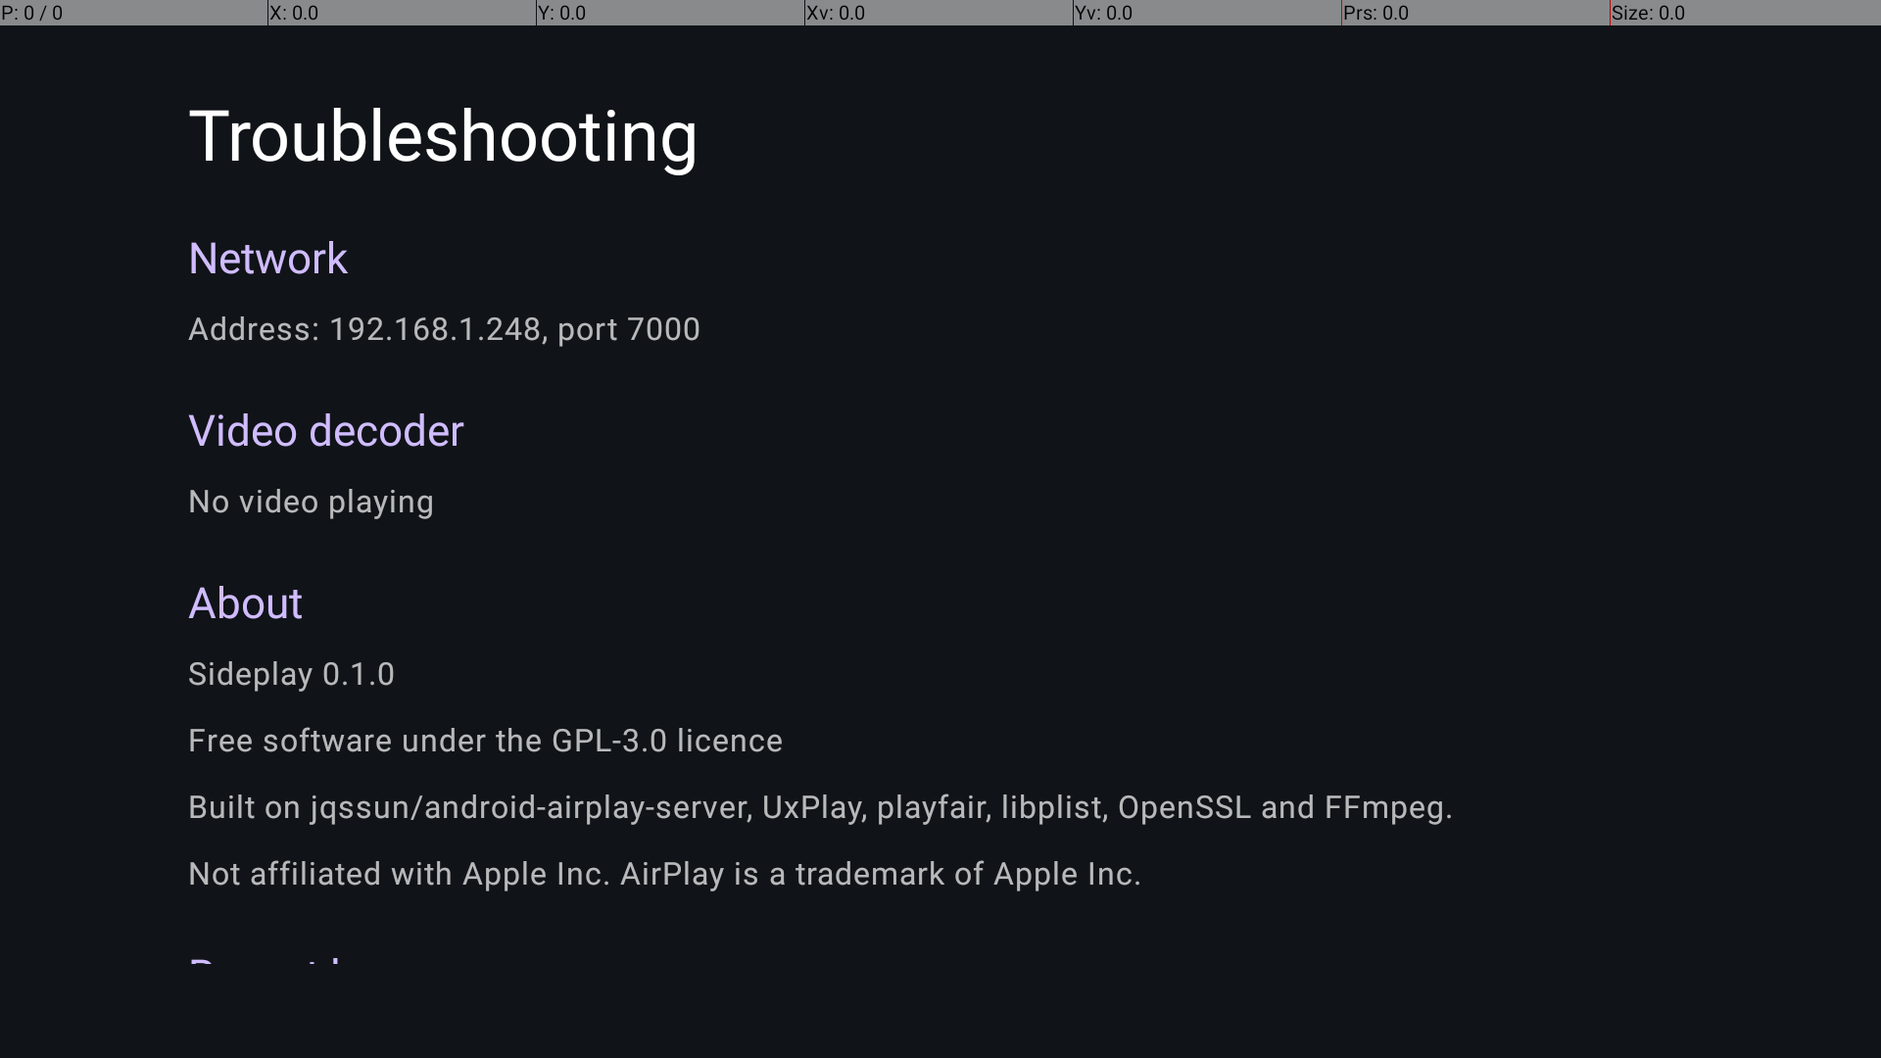
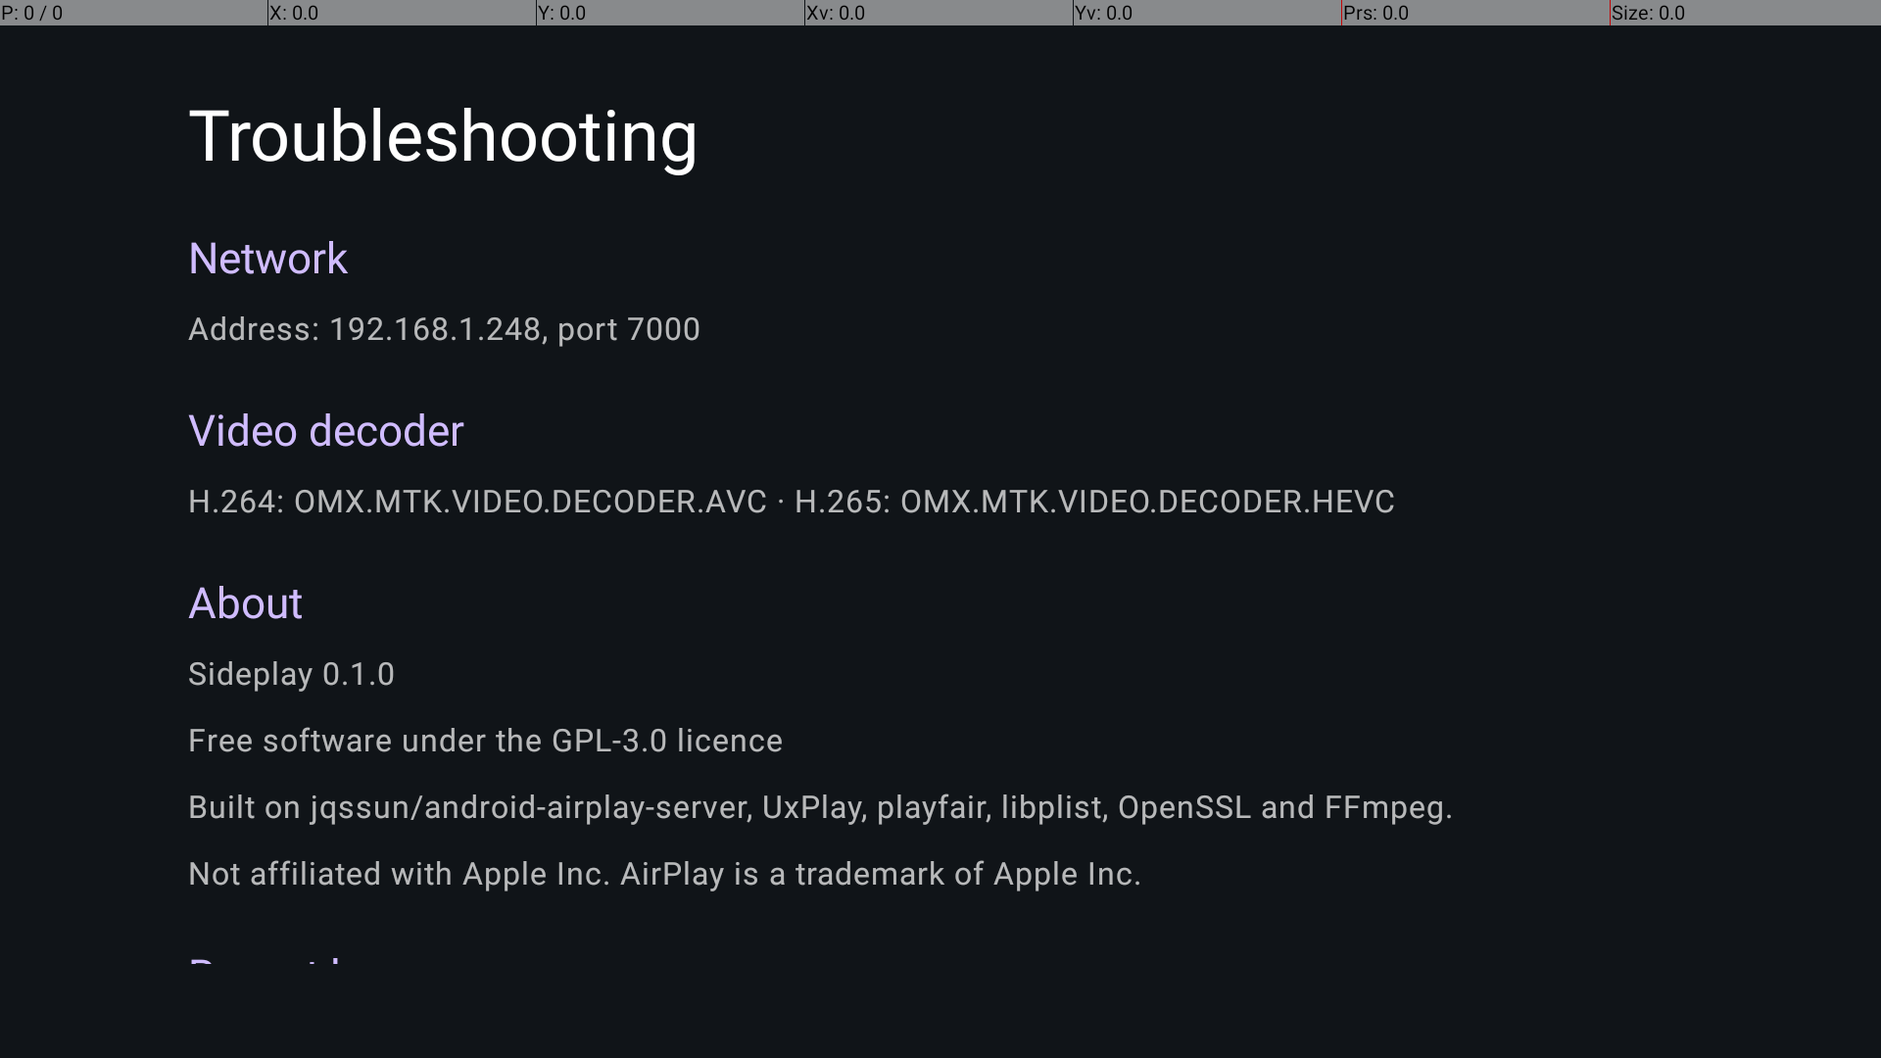
fix(tv): address final review findings
- PIN screen could strand the TV after a cancelled pairing: show it only while
  a connection exists, dismiss on Back and when connections drop to zero
- centre the mirror surface (portrait iPhone / 4:3 iPad were left-aligned)
- idle shows 'receiver isn't running' with Try again when the server is in ERROR
- troubleshooting shows the selected H.264/H.265 decoders (debug stream is off
  by default, so it always read 'No video playing')
- picture-in-picture renders only the picture, not the full TV UI

Changed region(s): [[0.0938, 0.4583, 0.75, 0.4889]]

diff --git a/app/src/main/kotlin/io/github/jqssun/airplay/ui/tv/TvApp.kt b/app/src/main/kotlin/io/github/jqssun/airplay/ui/tv/TvApp.kt
@@ -9,16 +9,22 @@ import androidx.compose.runtime.LaunchedEffect
 import androidx.compose.runtime.collectAsState
 import androidx.compose.runtime.getValue
 import androidx.compose.runtime.mutableStateOf
+import androidx.compose.runtime.produceState
 import androidx.compose.runtime.remember
 import androidx.compose.runtime.saveable.rememberSaveable
 import androidx.compose.runtime.setValue
+import androidx.compose.ui.Alignment
 import androidx.compose.ui.Modifier
 import androidx.compose.ui.graphics.Color
 import androidx.compose.ui.platform.LocalContext
 import androidx.lifecycle.compose.LifecycleResumeEffect
+import io.github.jqssun.airplay.renderer.DecoderSelector
+import io.github.jqssun.airplay.service.AirPlayService.ServerState
 import io.github.jqssun.airplay.ui.VideoSurfaceView
 import io.github.jqssun.airplay.ui.theme.AirPlayTheme
 import io.github.jqssun.airplay.viewmodel.MainViewModel
+import kotlinx.coroutines.Dispatchers
+import kotlinx.coroutines.withContext
 
 enum class TvRoute { HOME, SETTINGS, TROUBLESHOOTING }
 
@@ -31,7 +37,9 @@ fun TvTheme(content: @Composable () -> Unit) = AirPlayTheme(darkTheme = true, co
 fun TvAppContent(
     screen: TvScreen,
     route: TvRoute,
+    inPip: Boolean,
     mirrorSurface: @Composable () -> Unit,
+    playbackSurface: @Composable () -> Unit,
     firstRun: @Composable () -> Unit,
     idle: @Composable (connecting: Boolean) -> Unit,
     pin: @Composable (code: String) -> Unit,
@@ -41,7 +49,13 @@ fun TvAppContent(
     settings: @Composable () -> Unit,
     troubleshooting: @Composable () -> Unit,
 ) {
-    Box(Modifier.fillMaxSize().background(Color.Black)) {
+    // centred: portrait iphones and 4:3 ipads give a surface narrower than the tv
+    Box(Modifier.fillMaxSize().background(Color.Black), contentAlignment = Alignment.Center) {
+        // picture-in-picture is a small window: show only the picture
+        if (inPip) {
+            if (screen is TvScreen.Video) playbackSurface() else mirrorSurface()
+            return@Box
+        }
         // kept composed (never moved) so frames have a surface the moment mirroring starts
         if (screen !is TvScreen.Video) mirrorSurface()
         when (screen) {
@@ -62,6 +76,7 @@ fun TvAppContent(
 @Composable
 fun TvApp(
     viewModel: MainViewModel,
+    isInPip: Boolean,
     onSurfaceAvailable: (Surface) -> Unit,
     onSurfaceDestroyed: (Surface) -> Unit,
 ) {
@@ -75,6 +90,8 @@ fun TvApp(
     val pinCode by viewModel.pinCode.collectAsState()
     val serverName by viewModel.serverName.collectAsState()
     val lanAddress by viewModel.lanAddress.collectAsState()
+    val serverState by viewModel.serverState.collectAsState()
+    val h265 by viewModel.h265Enabled.collectAsState()
 
     var route by rememberSaveable { mutableStateOf(TvRoute.HOME) }
     var overlayAccess by remember { mutableStateOf(OverlayPermission.access(context)) }
@@ -87,11 +104,24 @@ fun TvApp(
     val screen = resolveTvScreen(TvSession(firstRunDone, connections, mirroring, audioOnly, videoActive, videoPending, pinCode))
     // a session ends any settings visit, so the next idle starts at home
     LaunchedEffect(screen !is TvScreen.Idle) { if (screen !is TvScreen.Idle) route = TvRoute.HOME }
+    // the service only clears a pin when a stream starts; a cancelled pairing must not leave it behind
+    LaunchedEffect(connections) { if (connections == 0) viewModel.dismissPin() }
+
+    val playbackSurface: @Composable () -> Unit = {
+        val aspect by viewModel.videoPlaybackAspect.collectAsState()
+        VideoSurfaceView(
+            onSurfaceAvailable = { viewModel.onVideoPlaybackSurfaceAvailable(it) },
+            onSurfaceDestroyed = { viewModel.onVideoPlaybackSurfaceDestroyed(it) },
+            aspectRatio = aspect,
+        )
+    }
 
     TvTheme {
         TvAppContent(
             screen = screen,
             route = route,
+            inPip = isInPip,
+            playbackSurface = playbackSurface,
             mirrorSurface = {
                 val aspect by viewModel.videoAspect.collectAsState()
                 VideoSurfaceView(onSurfaceAvailable = onSurfaceAvailable, onSurfaceDestroyed = onSurfaceDestroyed, aspectRatio = aspect)
@@ -105,9 +135,11 @@ fun TvApp(
                     overlayAccess = overlayAccess,
                     onOpenSettings = { route = TvRoute.SETTINGS },
                     onAllowAutoOpen = { runCatching { context.startActivity(OverlayPermission.intent(context)) } },
+                    receiverError = serverState == ServerState.ERROR,
+                    onRetry = { viewModel.startServer() },
                 )
             },
-            pin = { code -> TvPinScreen(code) },
+            pin = { code -> TvPinScreen(code, onDismiss = { viewModel.dismissPin() }) },
             mirroring = { TvMirroringOverlay(onDisconnect = { viewModel.disconnectAll() }) },
             video = {
                 val title by viewModel.videoTitle.collectAsState()
@@ -115,16 +147,9 @@ fun TvApp(
                 val buffering by viewModel.videoBuffering.collectAsState()
                 val position by viewModel.videoPositionMs.collectAsState()
                 val duration by viewModel.videoDurationMs.collectAsState()
-                val aspect by viewModel.videoPlaybackAspect.collectAsState()
                 TvVideoScreen(
                     state = TvVideoState(title, playing, buffering, pending = !videoActive && videoPending, position, duration),
-                    surface = {
-                        VideoSurfaceView(
-                            onSurfaceAvailable = { viewModel.onVideoPlaybackSurfaceAvailable(it) },
-                            onSurfaceDestroyed = { viewModel.onVideoPlaybackSurfaceDestroyed(it) },
-                            aspectRatio = aspect,
-                        )
-                    },
+                    surface = playbackSurface,
                     onTogglePlay = { viewModel.toggleVideoPlayPause(showOverlay = false) },
                     onPlay = { viewModel.setVideoPlaying(true, showOverlay = false) },
                     onPause = { viewModel.setVideoPlaying(false, showOverlay = false) },
@@ -139,7 +164,6 @@ fun TvApp(
             settings = {
                 val requirePin by viewModel.requirePin.collectAsState()
                 val boot by viewModel.bootAutoStart.collectAsState()
-                val h265 by viewModel.h265Enabled.collectAsState()
                 TvSettingsScreen(
                     state = TvSettingsState(serverName, requirePin, boot, h265),
                     onRename = { viewModel.setServerName(it) },
@@ -152,13 +176,20 @@ fun TvApp(
             },
             troubleshooting = {
                 val port by viewModel.serverPort.collectAsState()
-                val debug by viewModel.debugInfo.collectAsState()
+                // the service's debug stream is off by default; ask the decoder selector directly
+                val decoders by produceState("", h265) {
+                    value = withContext(Dispatchers.IO) {
+                        val selector = DecoderSelector(context)
+                        val avc = selector.avc()
+                        decoderSummary(avc?.name, selector.hevc(avc, 1920, 1080, 60)?.name, h265)
+                    }
+                }
                 val logs by viewModel.logs.collectAsState()
                 val version = remember {
                     runCatching { context.packageManager.getPackageInfo(context.packageName, 0).versionName }.getOrNull().orEmpty()
                 }
                 TvTroubleshootingScreen(
-                    state = TvTroubleshootingState(lanAddress, port, version, debug.videoCodec, logs),
+                    state = TvTroubleshootingState(lanAddress, port, version, decoders, logs),
                     onBack = { route = TvRoute.SETTINGS },
                 )
             },

diff --git a/app/src/androidTest/kotlin/io/github/jqssun/airplay/ui/tv/TvAppContentTest.kt b/app/src/androidTest/kotlin/io/github/jqssun/airplay/ui/tv/TvAppContentTest.kt
@@ -1,13 +1,18 @@
 package io.github.jqssun.airplay.ui.tv
 
 import androidx.compose.foundation.layout.Box
+import androidx.compose.foundation.layout.size
 import androidx.compose.material3.Text
 import androidx.compose.runtime.Composable
 import androidx.compose.ui.Modifier
 import androidx.compose.ui.platform.testTag
 import androidx.compose.ui.test.assertIsDisplayed
 import androidx.compose.ui.test.junit4.createComposeRule
+import androidx.compose.ui.test.getBoundsInRoot
 import androidx.compose.ui.test.onNodeWithTag
+import androidx.compose.ui.test.onRoot
+import androidx.compose.ui.unit.dp
+import org.junit.Assert.assertEquals
 import org.junit.Rule
 import org.junit.Test
 
@@ -16,10 +21,14 @@ class TvAppContentTest {
 
     @Composable private fun tag(t: String) = Box(Modifier.testTag(t)) { Text(t) }
 
-    private fun show(screen: TvScreen, route: TvRoute = TvRoute.HOME) = rule.setContent {
+    private fun show(
+        screen: TvScreen, route: TvRoute = TvRoute.HOME, inPip: Boolean = false,
+        mirror: @Composable () -> Unit = { tag("mirror_surface") },
+    ) = rule.setContent {
         TvAppContent(
-            screen = screen, route = route,
-            mirrorSurface = { tag("mirror_surface") },
+            screen = screen, route = route, inPip = inPip,
+            mirrorSurface = mirror,
+            playbackSurface = { tag("playback_surface") },
             firstRun = { tag("s_firstrun") },
             idle = { connecting -> tag(if (connecting) "s_idle_connecting" else "s_idle") },
             pin = { code -> tag("s_pin_$code") },
@@ -48,6 +57,26 @@ class TvAppContentTest {
     @Test fun mirrorSurfacePresentExceptDuringVideo() {
         show(TvScreen.Idle(false))
         rule.onNodeWithTag("mirror_surface").assertExists()
+    }
+
+    // portrait iphones produce a narrow surface; it must sit in the middle of the tv
+    @Test fun mirrorSurfaceIsCentred() {
+        show(TvScreen.Mirroring, mirror = { Box(Modifier.size(100.dp).testTag("mirror_surface")) })
+        val root = rule.onRoot().getBoundsInRoot()
+        val surface = rule.onNodeWithTag("mirror_surface").getBoundsInRoot()
+        assertEquals(((root.left + root.right) / 2).value, ((surface.left + surface.right) / 2).value, 1f)
+    }
+
+    @Test fun pipShowsOnlyMirrorSurface() {
+        show(TvScreen.Mirroring, inPip = true)
+        rule.onNodeWithTag("mirror_surface").assertExists()
+        rule.onNodeWithTag("s_mirroring").assertDoesNotExist()
+    }
+
+    @Test fun pipDuringVideoShowsOnlyPlaybackSurface() {
+        show(TvScreen.Video, inPip = true)
+        rule.onNodeWithTag("playback_surface").assertExists()
+        rule.onNodeWithTag("s_video").assertDoesNotExist()
     }
 
     @Test fun videoReplacesMirrorSurface() {

diff --git a/app/src/main/kotlin/io/github/jqssun/airplay/ui/tv/IdleScreen.kt b/app/src/main/kotlin/io/github/jqssun/airplay/ui/tv/IdleScreen.kt
@@ -1,5 +1,6 @@
 package io.github.jqssun.airplay.ui.tv
 
+import androidx.activity.compose.BackHandler
 import androidx.compose.foundation.background
 import androidx.compose.foundation.layout.Arrangement
 import androidx.compose.foundation.layout.Box
@@ -36,6 +37,8 @@ fun TvIdleScreen(
     overlayAccess: OverlayAccess,
     onOpenSettings: () -> Unit,
     onAllowAutoOpen: () -> Unit,
+    receiverError: Boolean = false,
+    onRetry: () -> Unit = {},
 ) {
     val settingsFocus = remember { FocusRequester() }
     LaunchedEffect(Unit) { settingsFocus.requestFocusUntilLanded() }
@@ -45,7 +48,11 @@ fun TvIdleScreen(
             verticalArrangement = Arrangement.spacedBy(20.dp),
         ) {
             Text(
-                text = stringResource(if (connecting) R.string.tv_idle_connecting else R.string.tv_idle_ready, serverName),
+                text = when {
+                    receiverError -> stringResource(R.string.tv_idle_error)
+                    connecting -> stringResource(R.string.tv_idle_connecting, serverName)
+                    else -> stringResource(R.string.tv_idle_ready, serverName)
+                },
                 style = MaterialTheme.typography.displaySmall,
                 color = Color.White,
                 modifier = Modifier.testTag("idle_title"),
@@ -54,6 +61,11 @@ fun TvIdleScreen(
             Step(1, stringResource(R.string.tv_idle_step_1))
             Step(2, stringResource(R.string.tv_idle_step_2))
             Step(3, stringResource(R.string.tv_idle_step_3, serverName))
+            if (receiverError) {
+                Button(onClick = onRetry, modifier = Modifier.tvFocus().testTag("retry_receiver")) {
+                    Text(stringResource(R.string.tv_retry))
+                }
+            }
             when (overlayAccess) {
                 OverlayAccess.GRANTABLE -> Button(
                     onClick = onAllowAutoOpen,
@@ -94,7 +106,8 @@ private fun Step(n: Int, text: String) {
 }
 
 @Composable
-fun TvPinScreen(code: String) {
+fun TvPinScreen(code: String, onDismiss: () -> Unit) {
+    BackHandler { onDismiss() }
     Box(Modifier.fillMaxSize().background(TvBackground), contentAlignment = Alignment.Center) {
         Column(horizontalAlignment = Alignment.CenterHorizontally, verticalArrangement = Arrangement.spacedBy(24.dp)) {
             Text(stringResource(R.string.tv_pin_title), style = MaterialTheme.typography.headlineMedium, color = TvMuted)

diff --git a/app/src/androidTest/kotlin/io/github/jqssun/airplay/ui/tv/IdleScreenTest.kt b/app/src/androidTest/kotlin/io/github/jqssun/airplay/ui/tv/IdleScreenTest.kt
@@ -6,6 +6,7 @@ import androidx.compose.ui.test.assertTextContains
 import androidx.compose.ui.test.junit4.createComposeRule
 import androidx.compose.ui.test.onNodeWithTag
 import androidx.compose.ui.test.performClick
+import org.junit.Assert.assertEquals
 import org.junit.Assert.assertTrue
 import org.junit.Rule
 import org.junit.Test
@@ -14,8 +15,21 @@ class IdleScreenTest {
     @get:Rule val rule = createComposeRule()
 
     private fun show(access: OverlayAccess = OverlayAccess.GRANTED, connecting: Boolean = false, ip: String? = "192.168.1.248",
-                     onSettings: () -> Unit = {}, onAllow: () -> Unit = {}) = rule.setContent {
-        TvIdleScreen("Living Room TV", ip, connecting, access, onSettings, onAllow)
+                     onSettings: () -> Unit = {}, onAllow: () -> Unit = {}, error: Boolean = false, onRetry: () -> Unit = {}) = rule.setContent {
+        TvIdleScreen("Living Room TV", ip, connecting, access, onSettings, onAllow, receiverError = error, onRetry = onRetry)
+    }
+
+    @Test fun receiverErrorShowsRetryInsteadOfReady() {
+        var retries = 0
+        show(error = true, onRetry = { retries++ })
+        rule.onNodeWithTag("idle_title").assertTextContains("isn't running", substring = true)
+        rule.onNodeWithTag("retry_receiver").assertIsDisplayed().performClick()
+        assertEquals(1, retries)
+    }
+
+    @Test fun noRetryWhenRunning() {
+        show()
+        rule.onNodeWithTag("retry_receiver").assertDoesNotExist()
     }
 
     @Test fun showsNameAndAddress() {
@@ -59,7 +73,7 @@ class IdleScreenTest {
     }
 
     @Test fun pinScreenShowsCode() {
-        rule.setContent { TvPinScreen("4821") }
+        rule.setContent { TvPinScreen("4821", onDismiss = {}) }
         rule.onNodeWithTag("pin_code").assertTextContains("4821")
     }
 }

diff --git a/app/src/test/kotlin/io/github/jqssun/airplay/ui/tv/TvFormatTest.kt b/app/src/test/kotlin/io/github/jqssun/airplay/ui/tv/TvFormatTest.kt
@@ -8,4 +8,13 @@ class TvFormatTest {
     @Test fun minutesAndSeconds() = assertEquals("12:03", formatPlaybackTime(723_000))
     @Test fun hours() = assertEquals("1:02:03", formatPlaybackTime(3_723_000))
     @Test fun negativeOrUnknownIsZero() = assertEquals("0:00", formatPlaybackTime(-1))
+
+    @Test fun decoderSummaryBoth() = assertEquals(
+        "H.264: OMX.MTK.VIDEO.DECODER.AVC · H.265: OMX.MTK.VIDEO.DECODER.HEVC",
+        decoderSummary("OMX.MTK.VIDEO.DECODER.AVC", "OMX.MTK.VIDEO.DECODER.HEVC", h265Enabled = true))
+    @Test fun decoderSummaryNoHevc() =
+        assertEquals("H.264: A · H.265: not supported", decoderSummary("A", null, h265Enabled = true))
+    @Test fun decoderSummaryHevcTurnedOff() =
+        assertEquals("H.264: A · H.265: off", decoderSummary("A", "H", h265Enabled = false))
+    @Test fun decoderSummaryNothingFound() = assertEquals("", decoderSummary(null, null, h265Enabled = true))
 }

diff --git a/app/src/main/kotlin/io/github/jqssun/airplay/ui/tv/TvScreen.kt b/app/src/main/kotlin/io/github/jqssun/airplay/ui/tv/TvScreen.kt
@@ -20,9 +20,10 @@ data class TvSession(
     val pinCode: String?,
 )
 
-// pin first: pairing can't complete unless the code is visible
+// pin first: pairing can't complete unless the code is visible. uxplay counts the connection
+// before asking for a pin, and the service keeps a cancelled pin, so require a live connection
 fun resolveTvScreen(s: TvSession): TvScreen = when {
-    s.pinCode != null -> TvScreen.Pin(s.pinCode)
+    s.pinCode != null && s.connectionCount > 0 -> TvScreen.Pin(s.pinCode)
     s.videoPlaybackActive || s.videoSessionPending -> TvScreen.Video
     s.mirroringActive && !s.audioOnly -> TvScreen.Mirroring
     s.audioOnly && s.connectionCount > 0 -> TvScreen.Audio

diff --git a/app/src/test/kotlin/io/github/jqssun/airplay/ui/tv/TvScreenTest.kt b/app/src/test/kotlin/io/github/jqssun/airplay/ui/tv/TvScreenTest.kt
@@ -35,6 +35,10 @@ class TvScreenTest {
     @Test fun videoWinsOverMirroring() =
         assertEquals(TvScreen.Video, resolveTvScreen(idle.copy(connectionCount = 1, mirroringActive = true, videoPlaybackActive = true)))
 
+    // a cancelled pairing drops the connection but the service keeps the code; never strand the tv on it
+    @Test fun pinWithoutConnectionIsIdle() =
+        assertEquals(TvScreen.Idle(connecting = false), resolveTvScreen(idle.copy(pinCode = "1234")))
+
     @Test fun pinWinsOverEverything() =
         assertEquals(TvScreen.Pin("1234"), resolveTvScreen(idle.copy(connectionCount = 1, videoPlaybackActive = true, pinCode = "1234")))
 }

diff --git a/app/src/androidTest/kotlin/io/github/jqssun/airplay/ui/tv/PinScreenTest.kt b/app/src/androidTest/kotlin/io/github/jqssun/airplay/ui/tv/PinScreenTest.kt
@@ -1,0 +1,18 @@
+package io.github.jqssun.airplay.ui.tv
+
+import androidx.activity.ComponentActivity
+import androidx.compose.ui.test.junit4.createAndroidComposeRule
+import org.junit.Assert.assertEquals
+import org.junit.Rule
+import org.junit.Test
+
+class PinScreenTest {
+    @get:Rule val rule = createAndroidComposeRule<ComponentActivity>()
+
+    @Test fun backDismissesPin() {
+        var dismissed = 0
+        rule.setContent { TvPinScreen("4821", onDismiss = { dismissed++ }) }
+        rule.runOnUiThread { rule.activity.onBackPressedDispatcher.onBackPressed() }
+        assertEquals(1, dismissed)
+    }
+}

diff --git a/app/src/main/kotlin/io/github/jqssun/airplay/ui/tv/TvFormat.kt b/app/src/main/kotlin/io/github/jqssun/airplay/ui/tv/TvFormat.kt
@@ -7,3 +7,14 @@ fun formatPlaybackTime(ms: Long): String {
     val s = total % 60
     return if (h > 0) "%d:%02d:%02d".format(h, m, s) else "%d:%02d".format(m, s)
 }
+
+/** What the TV can decode, for Troubleshooting; empty when no hardware decoder was found. */
+fun decoderSummary(avc: String?, hevc: String?, h265Enabled: Boolean): String {
+    if (avc == null && hevc == null) return ""
+    val h265 = when {
+        !h265Enabled -> "off"
+        hevc == null -> "not supported"
+        else -> hevc
+    }
+    return "H.264: ${avc ?: "not supported"} · H.265: $h265"
+}

diff --git a/app/src/main/kotlin/io/github/jqssun/airplay/MainActivity.kt b/app/src/main/kotlin/io/github/jqssun/airplay/MainActivity.kt
@@ -113,6 +113,7 @@ class MainActivity : ComponentActivity() {
                 if (tv) {
                     TvApp(
                         viewModel = viewModel,
+                        isInPip = isInPip.value,
                         onSurfaceAvailable = { viewModel.onSurfaceAvailable(it) },
                         onSurfaceDestroyed = { viewModel.onSurfaceDestroyed(it) },
                     )

diff --git a/docs/findings/2026-10-tv-ui-device-check.md b/docs/findings/2026-10-tv-ui-device-check.md
@@ -10,7 +10,7 @@ Driven over ADB (`input keyevent`, `screencap`, `uiautomator dump`); no iPhone i
 | Idle after Done (name, steps, IP, focus) | Pass: "Living Room TV is ready", 3 steps, "TV address: 192.168.1.248", Settings focused | screens/tv-idle.png |
 | Prefs written | Pass: `first_run_done=true`, `boot_auto_start=true` | — |
 | Settings reachable, rows by D-pad | Pass, after fix 8d130f8 (last row was squashed before) | screens/tv-settings.png, screens/tv-settings-bottom.png |
-| Troubleshooting content | Pass: address + port 7000, decoder "No video playing", About, licence, credits, Apple disclaimer; D-pad scrolls to "Recent log" | screens/tv-troubleshooting.png, screens/tv-troubleshooting-scrolled.png |
+| Troubleshooting content | Pass: address + port 7000, decoders "H.264: OMX.MTK.VIDEO.DECODER.AVC · H.265: OMX.MTK.VIDEO.DECODER.HEVC" (after review fix; was always "No video playing"), About, licence, credits, Apple disclaimer; D-pad scrolls to "Recent log" | screens/tv-troubleshooting.png, screens/tv-troubleshooting-scrolled.png |
 | Back returns to Idle | Pass: Troubleshooting → Settings → Idle | screens/tv-idle-after-back.png |
 | Still advertised as "Living Room TV" | Pass (`dns-sd -B _airplay._tcp`) | — |
 | Overlay UI before grant | Shows "Keep Sideplay open to receive the picture" (`OverlayAccess.UNAVAILABLE`) | screens/tv-idle.png |
